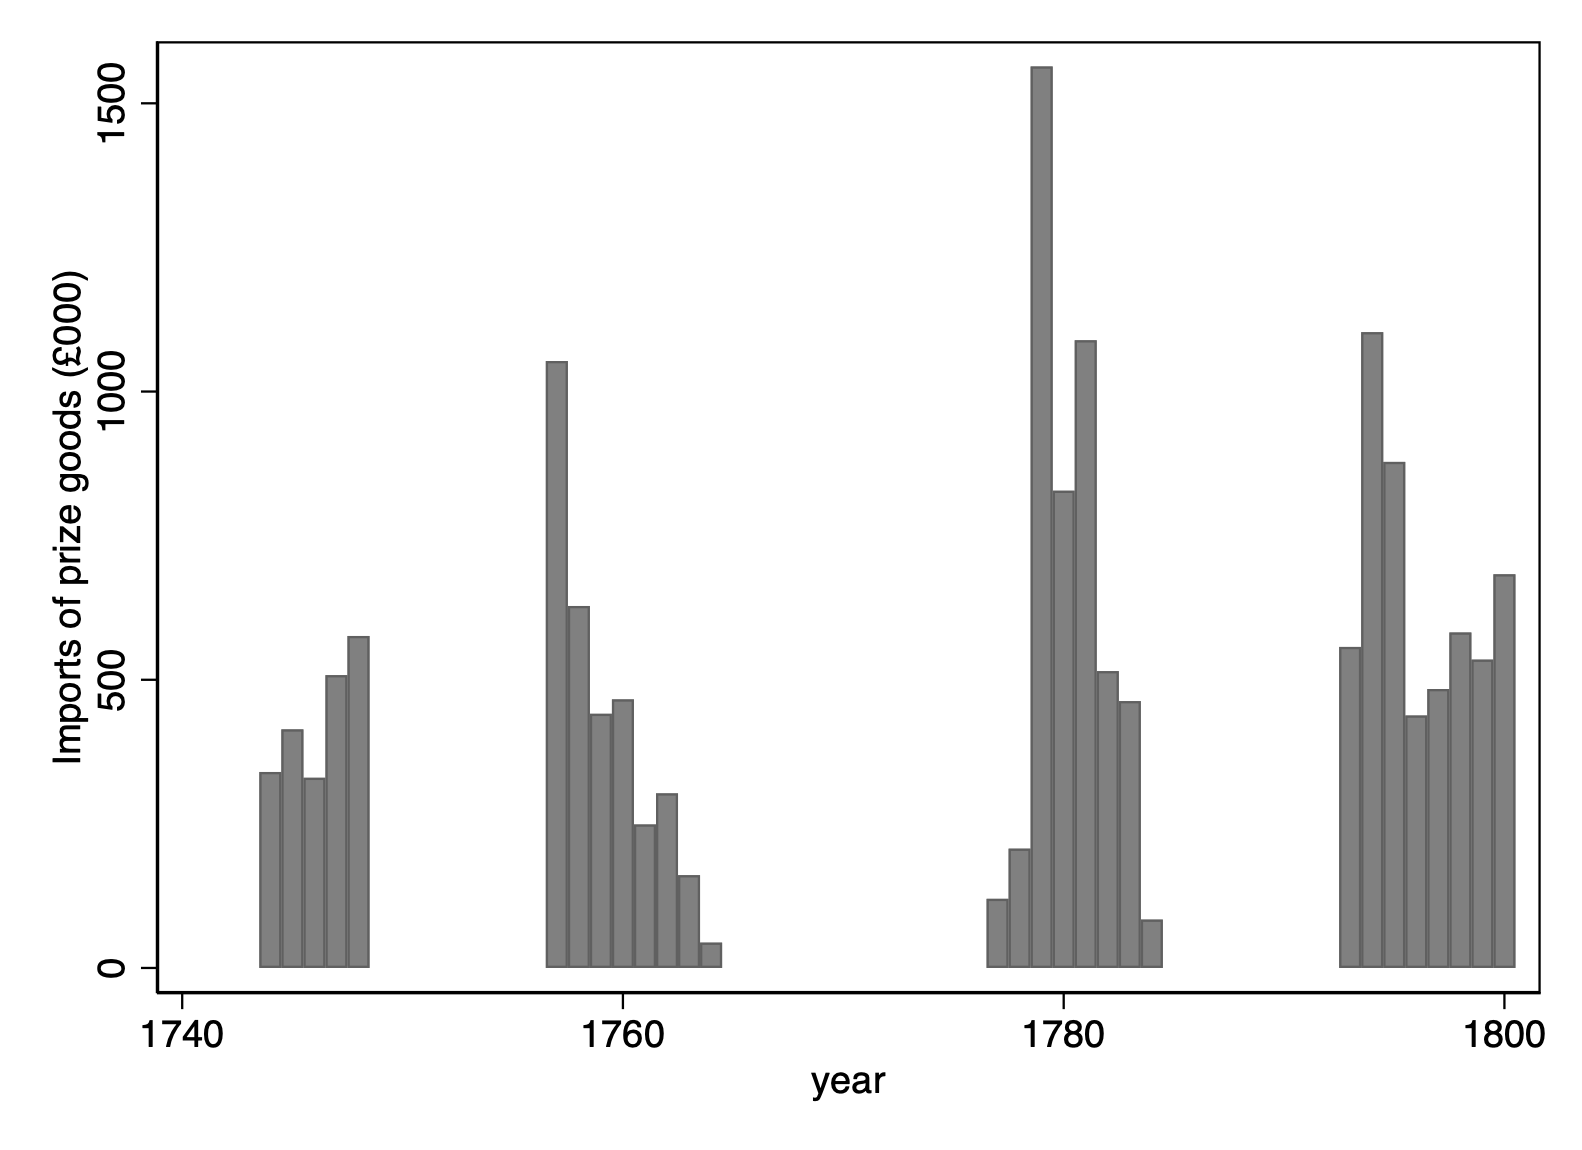
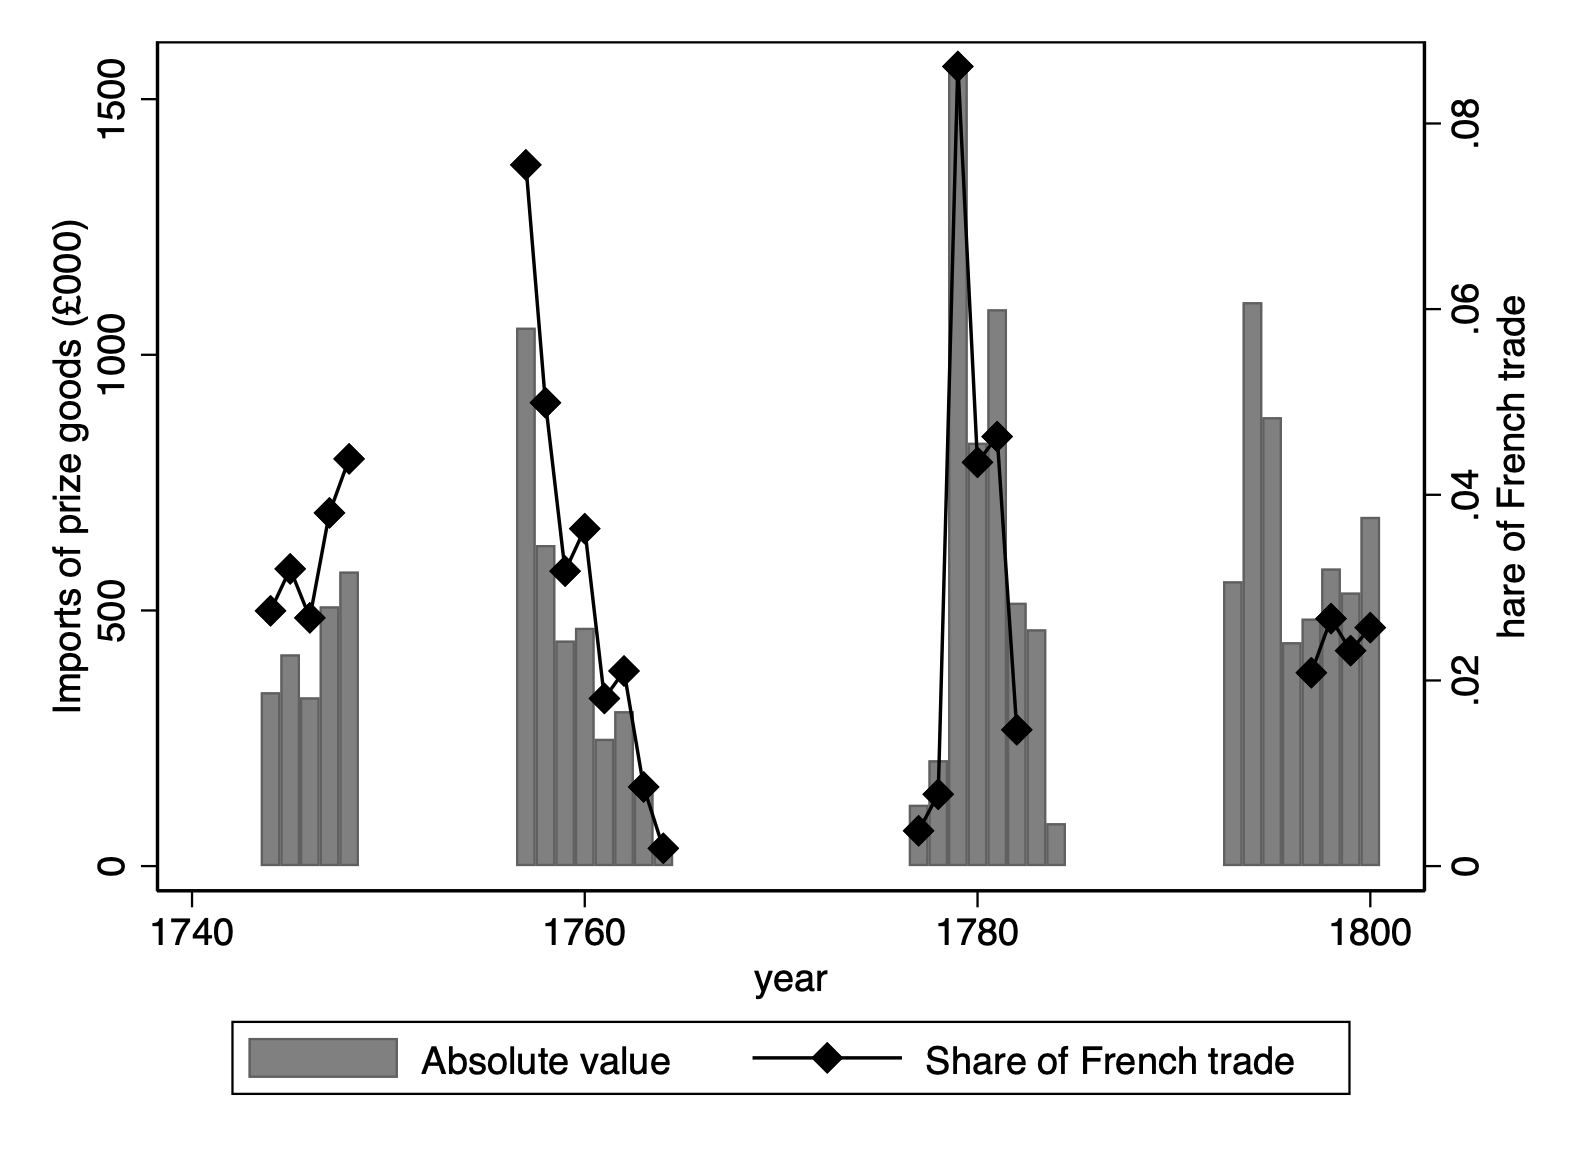
Some more work on prizes

diff --git a/Paper - Impact of War/Paper/How to wage a trade war.tex b/Paper - Impact of War/Paper/How to wage a trade war.tex
@@ -390,20 +390,33 @@ French merchant ships were directly affected by the action of British privateers
 
 \cite{Starkey1990} provides the number of prizes condemned as legal by the High Court of the Admiralty in London, both from privateers and the Royal Navy from 1702 to 1785. 
 Prizes are a good measure of the pressure exerced on trade, as British state limited its alternative, ransoming, more and more drastically from 1744 (see \cite{Hillmann2011}, p. 734 ).
-Thank to data provided by Henning Hillmann (coming mainly from records at the PRO High Court of the Admiralty archives and underlying \cite{Hillmann2011}), we can compute an approximation of the number and the nationality of prizes captured by privateers up to 1809.
-
-Privateering activity became marginal during the Revolutionary \& Napoleonic Wars, during which most of the predation was exerciced by the Royal Navy.
-There are no data available on the prizes captured by the Royal Navy during that period.
-Presumably, the pressure on French trade was maximal after 1809 as the Blockade was in place.
+Thank to data provided by Henning Hillmann (coming mainly from records at the PRO High Court of the Admiralty archives and underlying \cite{Hillmann2011}), we can compute an approximation of the number and the nationality of prizes captured by privateers up to 1809 (see Figure \ref{Prizes})
 
 \begin{center}
 	\begin{figure}[H]
 		\caption{English privateering}
-		\label{GBannual_loss_function}
+		\label{Prizes}
 		\centering
-		\includegraphics[scale=0.9]{Prizes.pdf}
+		\includegraphics[scale=0.7]{Prizes.png}
+		\source{\cite{Starkey1990} and data provided by Hennening Hillmann, underlying \cite{Hillmann2011}}
 	\end{figure}
 \end{center}
+
+Privateering activity became marginal during the Revolutionary \& Napoleonic Wars, during which most of the predation was exerciced by the Royal Navy.
+There are no time serie available on the prizes captured by the Royal Navy during that period.
+We have three reasons to believe that the pressure on French trade exerciced by the Royal Navy was important.
+First, up to 1800 we have data on prize goods imported in Great Britain (see Figure \ref{Prize goods imports})). Presumably, the pressure on French trade was very important, especially after 1809 as the Blockade was in place.
+
+\begin{center}
+	\begin{figure}[H]
+		\caption{Prize goods imports in Great-Britain}
+		\label{Prize goods imports}
+		\centering
+		\includegraphics[scale=0.7]{Prizes_imports.png}
+		\source{\cite{Ashton1960}}
+	\end{figure}
+\end{center}
+
 
 
 \subsubsection{Naval supremacy}
